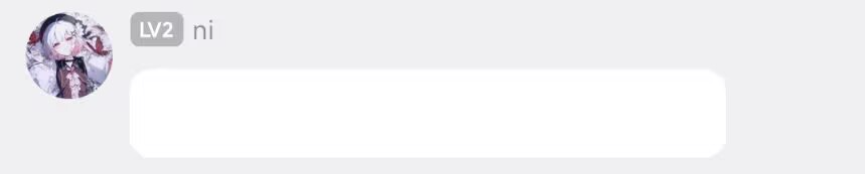
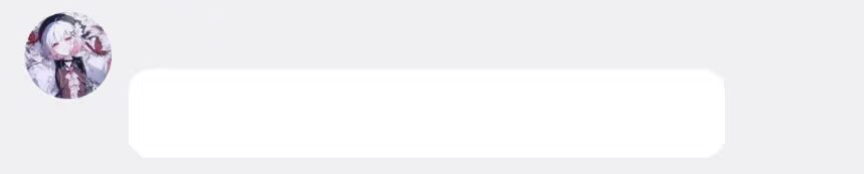
添加qq头像裁剪

Changed region(s): [[0.0312, 0.0575, 0.2497, 0.5747]]

diff --git a/src/core/qqbox.py b/src/core/qqbox.py
@@ -1,4 +1,5 @@
-from PIL import Image
+from PIL import Image, ImageDraw
+from io import BytesIO
 import requests
 import json
 import os
@@ -44,6 +45,127 @@ def download_avatar(avatar_url, save_path="avatar.jpg"):
         print(f"下载失败: {e}")
         return None
 
+def download_circular_avatar(avatar_url, save_path="avatar.png", crop_circle=True, circle_size=None):
+    """
+    下载头像到本地，可选圆形裁剪
+
+    Args:
+        avatar_url (str): 头像的URL地址
+        save_path (str): 本地保存路径，默认avatar.png
+        crop_circle (bool): 是否进行圆形裁剪，默认True
+        circle_size (int): 圆形半径（中心到边界的距离），默认None（自动计算为图片最小边的一半）
+    """
+    try:
+        # 发送GET请求
+        response = requests.get(avatar_url)
+        response.raise_for_status()  # 检查请求是否成功
+
+        # 将图片内容读取为PIL Image对象
+        image = Image.open(BytesIO(response.content)).convert("RGBA")
+
+        if crop_circle:
+            # 如果没有指定circle_size，自动计算为图片最小边的一半
+            if circle_size is None:
+                width, height = image.size
+                circle_size = min(width, height) // 2
+
+            # 进行圆形裁剪
+            image = create_circular_avatar(image, circle_size)
+            # 圆形图片强制保存为PNG格式以保持透明通道
+            if not save_path.lower().endswith('.png'):
+                save_path = save_path.rsplit('.', 1)[0] + '.png'
+
+        # 获取文件扩展名（仅在非圆形裁剪时使用）
+        if not crop_circle:
+            content_type = response.headers.get('content-type', '')
+            if 'jpeg' in content_type or 'jpg' in content_type:
+                extension = '.jpg'
+                format_type = 'JPEG'
+            elif 'png' in content_type:
+                extension = '.png'
+                format_type = 'PNG'
+            elif 'gif' in content_type:
+                extension = '.gif'
+                format_type = 'GIF'
+            else:
+                extension = '.' + avatar_url.split('.')[-1] if '.' in avatar_url else '.jpg'
+                format_type = 'JPEG'
+
+            # 确保保存路径有正确的扩展名
+            if not save_path.lower().endswith(('.jpg', '.jpeg', '.png', '.gif')):
+                save_path = save_path.rsplit('.', 1)[0] + extension
+        else:
+            # 圆形裁剪时强制使用PNG格式
+            format_type = 'PNG'
+
+        # 保存图片
+        if format_type == 'JPEG' and image.mode == 'RGBA':
+            # JPEG不支持透明通道，转换为RGB
+            background = Image.new('RGB', image.size, (255, 255, 255))
+            background.paste(image, mask=image.split()[-1])  # 使用alpha通道作为mask
+            image = background
+
+        image.save(save_path, format_type)
+        print(f"头像已成功下载到: {save_path} (尺寸: {image.size})")
+        return save_path
+
+    except Exception as e:
+        print(f"下载失败: {e}")
+        return None
+
+def create_circular_avatar(image, radius):
+    """
+    将图片裁剪为圆形
+
+    Args:
+        image: PIL Image对象
+        radius: 圆形半径
+
+    Returns:
+        圆形头像的PIL Image对象
+    """
+    # 计算最终图片尺寸（直径）
+    diameter = radius * 2
+
+    # 调整图片大小为正方形，确保中心裁剪
+    width, height = image.size
+
+    # 计算裁剪区域（从中心裁剪）
+    if width > height:
+        # 宽图，从左右裁剪
+        left = (width - height) // 2
+        top = 0
+        right = left + height
+        bottom = height
+    else:
+        # 高图，从上下裁剪
+        left = 0
+        top = (height - width) // 2
+        right = width
+        bottom = top + width
+
+    # 先进行中心正方形裁剪
+    image = image.crop((left, top, right, bottom))
+
+    # 调整到目标尺寸
+    image = image.resize((diameter, diameter), Image.Resampling.LANCZOS)
+
+    # 创建圆形蒙版
+    mask = Image.new('L', (diameter, diameter), 0)
+    draw = ImageDraw.Draw(mask)
+    draw.ellipse((0, 0, diameter, diameter), fill=255)
+
+    # 创建带透明通道的结果图像
+    result = Image.new('RGBA', (diameter, diameter), (0, 0, 0, 0))
+
+    # 应用圆形蒙版
+    result.putalpha(mask)
+
+    # 将原图粘贴到结果图像上
+    result.paste(image, (0, 0), mask)
+
+    return result
+
 def get_qq_info(qq):
     avatar_cache_location = os.environ.get('avatar_cache_location')
     response = requests.get(f"https://uapis.cn/api/v1/social/qq/userinfo?qq={qq}")
@@ -54,7 +176,6 @@ def get_qq_info(qq):
         avatar_url = data["avatar_url"]
     else:
         return False
-    download_avatar(avatar_url, os.path.join(avatar_cache_location,f"{qq}-{name}.jpg"))
+    download_circular_avatar(avatar_url, os.path.join(avatar_cache_location, f"{qq}-{name}.png"))
     return True
-
 
